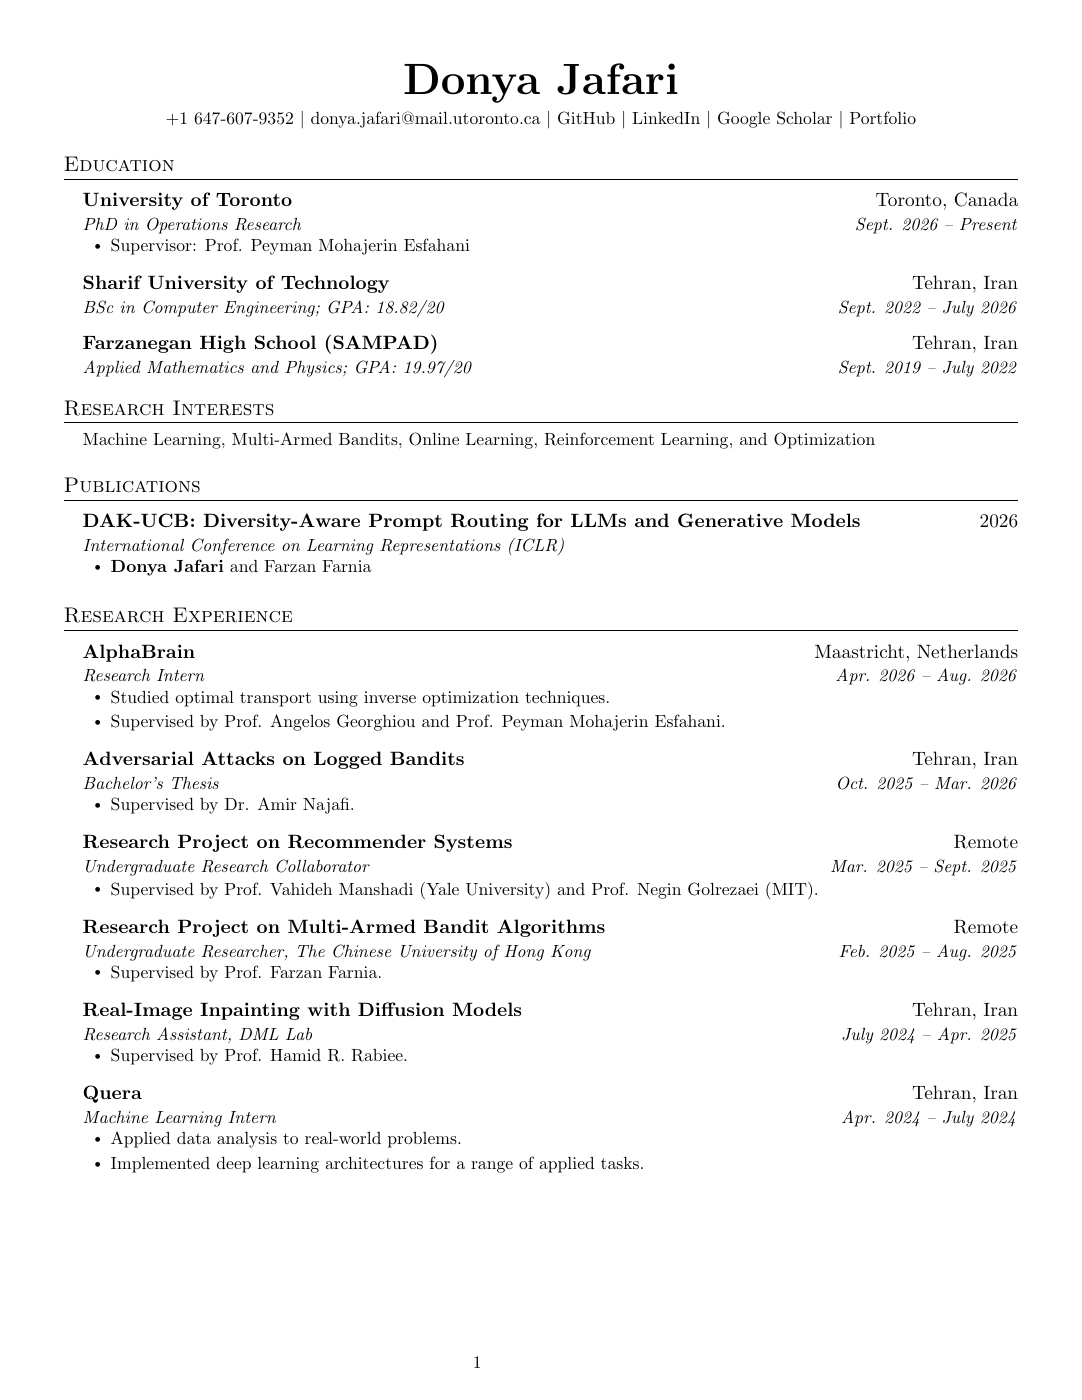
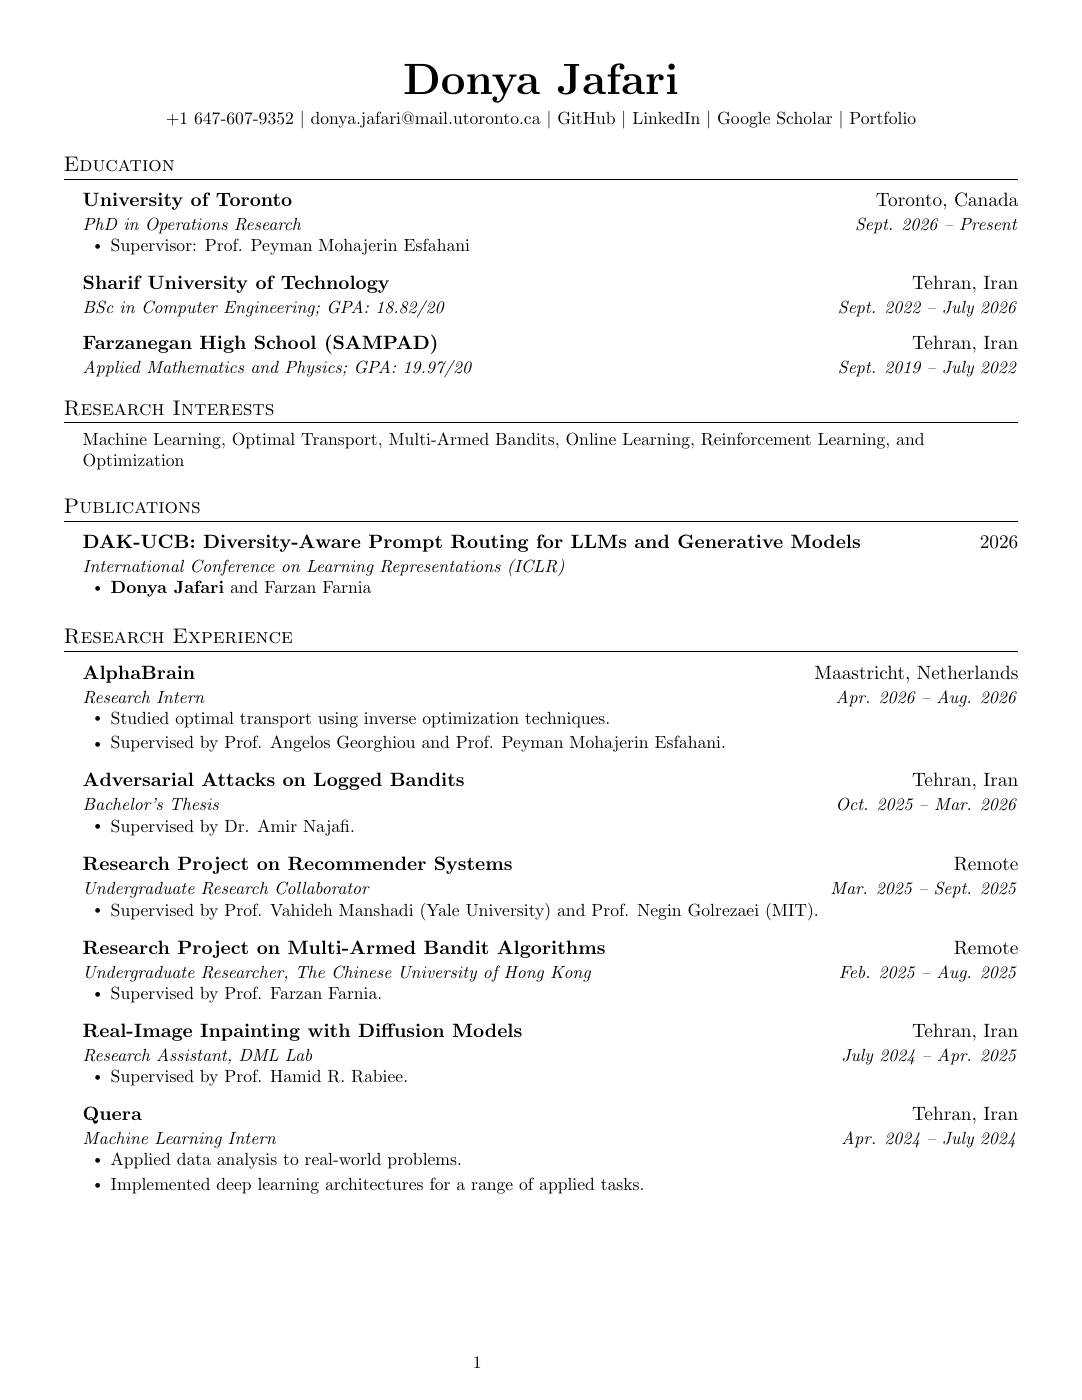
Add optimal transport to CV research interests

diff --git a/cv.html b/cv.html
@@ -21,8 +21,8 @@
     </nav>
   </header>
   <main id="main" class="container" tabindex="-1"><header class="page-heading"><p class="eyebrow">Background &amp; experience</p><h1>Curriculum vitae</h1><p>Education, research, publications, teaching, and coursework.</p></header>
-<section class="cv-summary" aria-label="CV download"><div><h2>Donya Jafari</h2><p>PhD student · University of Toronto</p><p class="document-meta">Updated September 2026 · PDF · 2 pages</p></div><div class="cv-actions"><a class="button" href="Donya_Jafari_CV.pdf?v=74b7f4f90cb6" download>Download CV <span aria-hidden="true">↓</span></a><a class="text-link" href="Donya_Jafari_CV.pdf?v=74b7f4f90cb6">Open PDF <span aria-hidden="true">↗</span></a></div></section>
-<figure class="cv-preview"><a href="Donya_Jafari_CV.pdf?v=74b7f4f90cb6" aria-label="Open the complete two-page CV"><img src="assets/cv-preview.png?v=181b6171792e" width="1082" height="1400" alt="First-page preview of Donya Jafari’s academic CV. Open the PDF to read the complete document." loading="lazy"></a><figcaption>Preview · Page 1 of 2. <a href="Donya_Jafari_CV.pdf?v=74b7f4f90cb6">Read the full CV</a>.</figcaption></figure></main>
+<section class="cv-summary" aria-label="CV download"><div><h2>Donya Jafari</h2><p>PhD student · University of Toronto</p><p class="document-meta">Updated September 2026 · PDF · 2 pages</p></div><div class="cv-actions"><a class="button" href="Donya_Jafari_CV.pdf?v=7ca5e5e67c67" download>Download CV <span aria-hidden="true">↓</span></a><a class="text-link" href="Donya_Jafari_CV.pdf?v=7ca5e5e67c67">Open PDF <span aria-hidden="true">↗</span></a></div></section>
+<figure class="cv-preview"><a href="Donya_Jafari_CV.pdf?v=7ca5e5e67c67" aria-label="Open the complete two-page CV"><img src="assets/cv-preview.png?v=b3c7e815c102" width="1082" height="1400" alt="First-page preview of Donya Jafari’s academic CV. Open the PDF to read the complete document." loading="lazy"></a><figcaption>Preview · Page 1 of 2. <a href="Donya_Jafari_CV.pdf?v=7ca5e5e67c67">Read the full CV</a>.</figcaption></figure></main>
   <footer class="site-footer container"><span>© 2026 Donya Jafari</span><a href="mailto:donya.jafari@mail.utoronto.ca">Get in touch <span aria-hidden="true">↗</span></a></footer>
 </body>
 </html>

diff --git a/about.html b/about.html
@@ -29,7 +29,7 @@
     <p>I study machine learning and sequential decision-making, with interests in multi-armed bandits, online learning, reinforcement learning, and optimization.</p>
     <p>I am a PhD student at the University of Toronto, supervised by <a href="https://scholar.google.com/citations?user=ZTan-7YAAAAJ">Prof. Peyman Mohajerin Esfahani</a>. I received my BSc in Computer Engineering from Sharif University of Technology in July 2026.</p>
     <div class="social-links"><a href="mailto:donya.jafari@mail.utoronto.ca">Email</a><a href="https://scholar.google.com/citations?user=WCK7U_UAAAAJ&amp;hl=en">Google Scholar</a><a href="https://github.com/Donya-Jafari">GitHub</a><a href="https://linkedin.com/in/donyajafari">LinkedIn</a></div>
-    <a class="text-link" href="Donya_Jafari_CV.pdf?v=74b7f4f90cb6">View my CV <span aria-hidden="true">↗</span></a>
+    <a class="text-link" href="Donya_Jafari_CV.pdf?v=7ca5e5e67c67">View my CV <span aria-hidden="true">↗</span></a>
   </div>
   <figure class="portrait"><img src="image.png" alt="Portrait of Donya Jafari" width="260" height="300"><figcaption>Machine learning &amp; optimization</figcaption></figure>
 </section>

diff --git a/index.html b/index.html
@@ -29,7 +29,7 @@
     <p>I study machine learning and sequential decision-making, with interests in multi-armed bandits, online learning, reinforcement learning, and optimization.</p>
     <p>I am a PhD student at the University of Toronto, supervised by <a href="https://scholar.google.com/citations?user=ZTan-7YAAAAJ">Prof. Peyman Mohajerin Esfahani</a>. I received my BSc in Computer Engineering from Sharif University of Technology in July 2026.</p>
     <div class="social-links"><a href="mailto:donya.jafari@mail.utoronto.ca">Email</a><a href="https://scholar.google.com/citations?user=WCK7U_UAAAAJ&amp;hl=en">Google Scholar</a><a href="https://github.com/Donya-Jafari">GitHub</a><a href="https://linkedin.com/in/donyajafari">LinkedIn</a></div>
-    <a class="text-link" href="Donya_Jafari_CV.pdf?v=74b7f4f90cb6">View my CV <span aria-hidden="true">↗</span></a>
+    <a class="text-link" href="Donya_Jafari_CV.pdf?v=7ca5e5e67c67">View my CV <span aria-hidden="true">↗</span></a>
   </div>
   <figure class="portrait"><img src="image.png" alt="Portrait of Donya Jafari" width="260" height="300"><figcaption>Machine learning &amp; optimization</figcaption></figure>
 </section>

diff --git a/Donya_Jafari_Academic_CV.tex b/Donya_Jafari_Academic_CV.tex
@@ -108,7 +108,7 @@
 %-----------RESEARCH INTERESTS-----------
 \section{Research Interests}
 \begin{itemize}[leftmargin=0.15in,label={},itemsep=6pt,parsep=0pt,topsep=4pt]
-  \small\item{Machine Learning, Multi-Armed Bandits, Online Learning, Reinforcement Learning, and Optimization}
+  \small\item{Machine Learning, Optimal Transport, Multi-Armed Bandits, Online Learning, Reinforcement Learning, and Optimization}
 \end{itemize}
 
 %-----------PUBLICATIONS-----------
